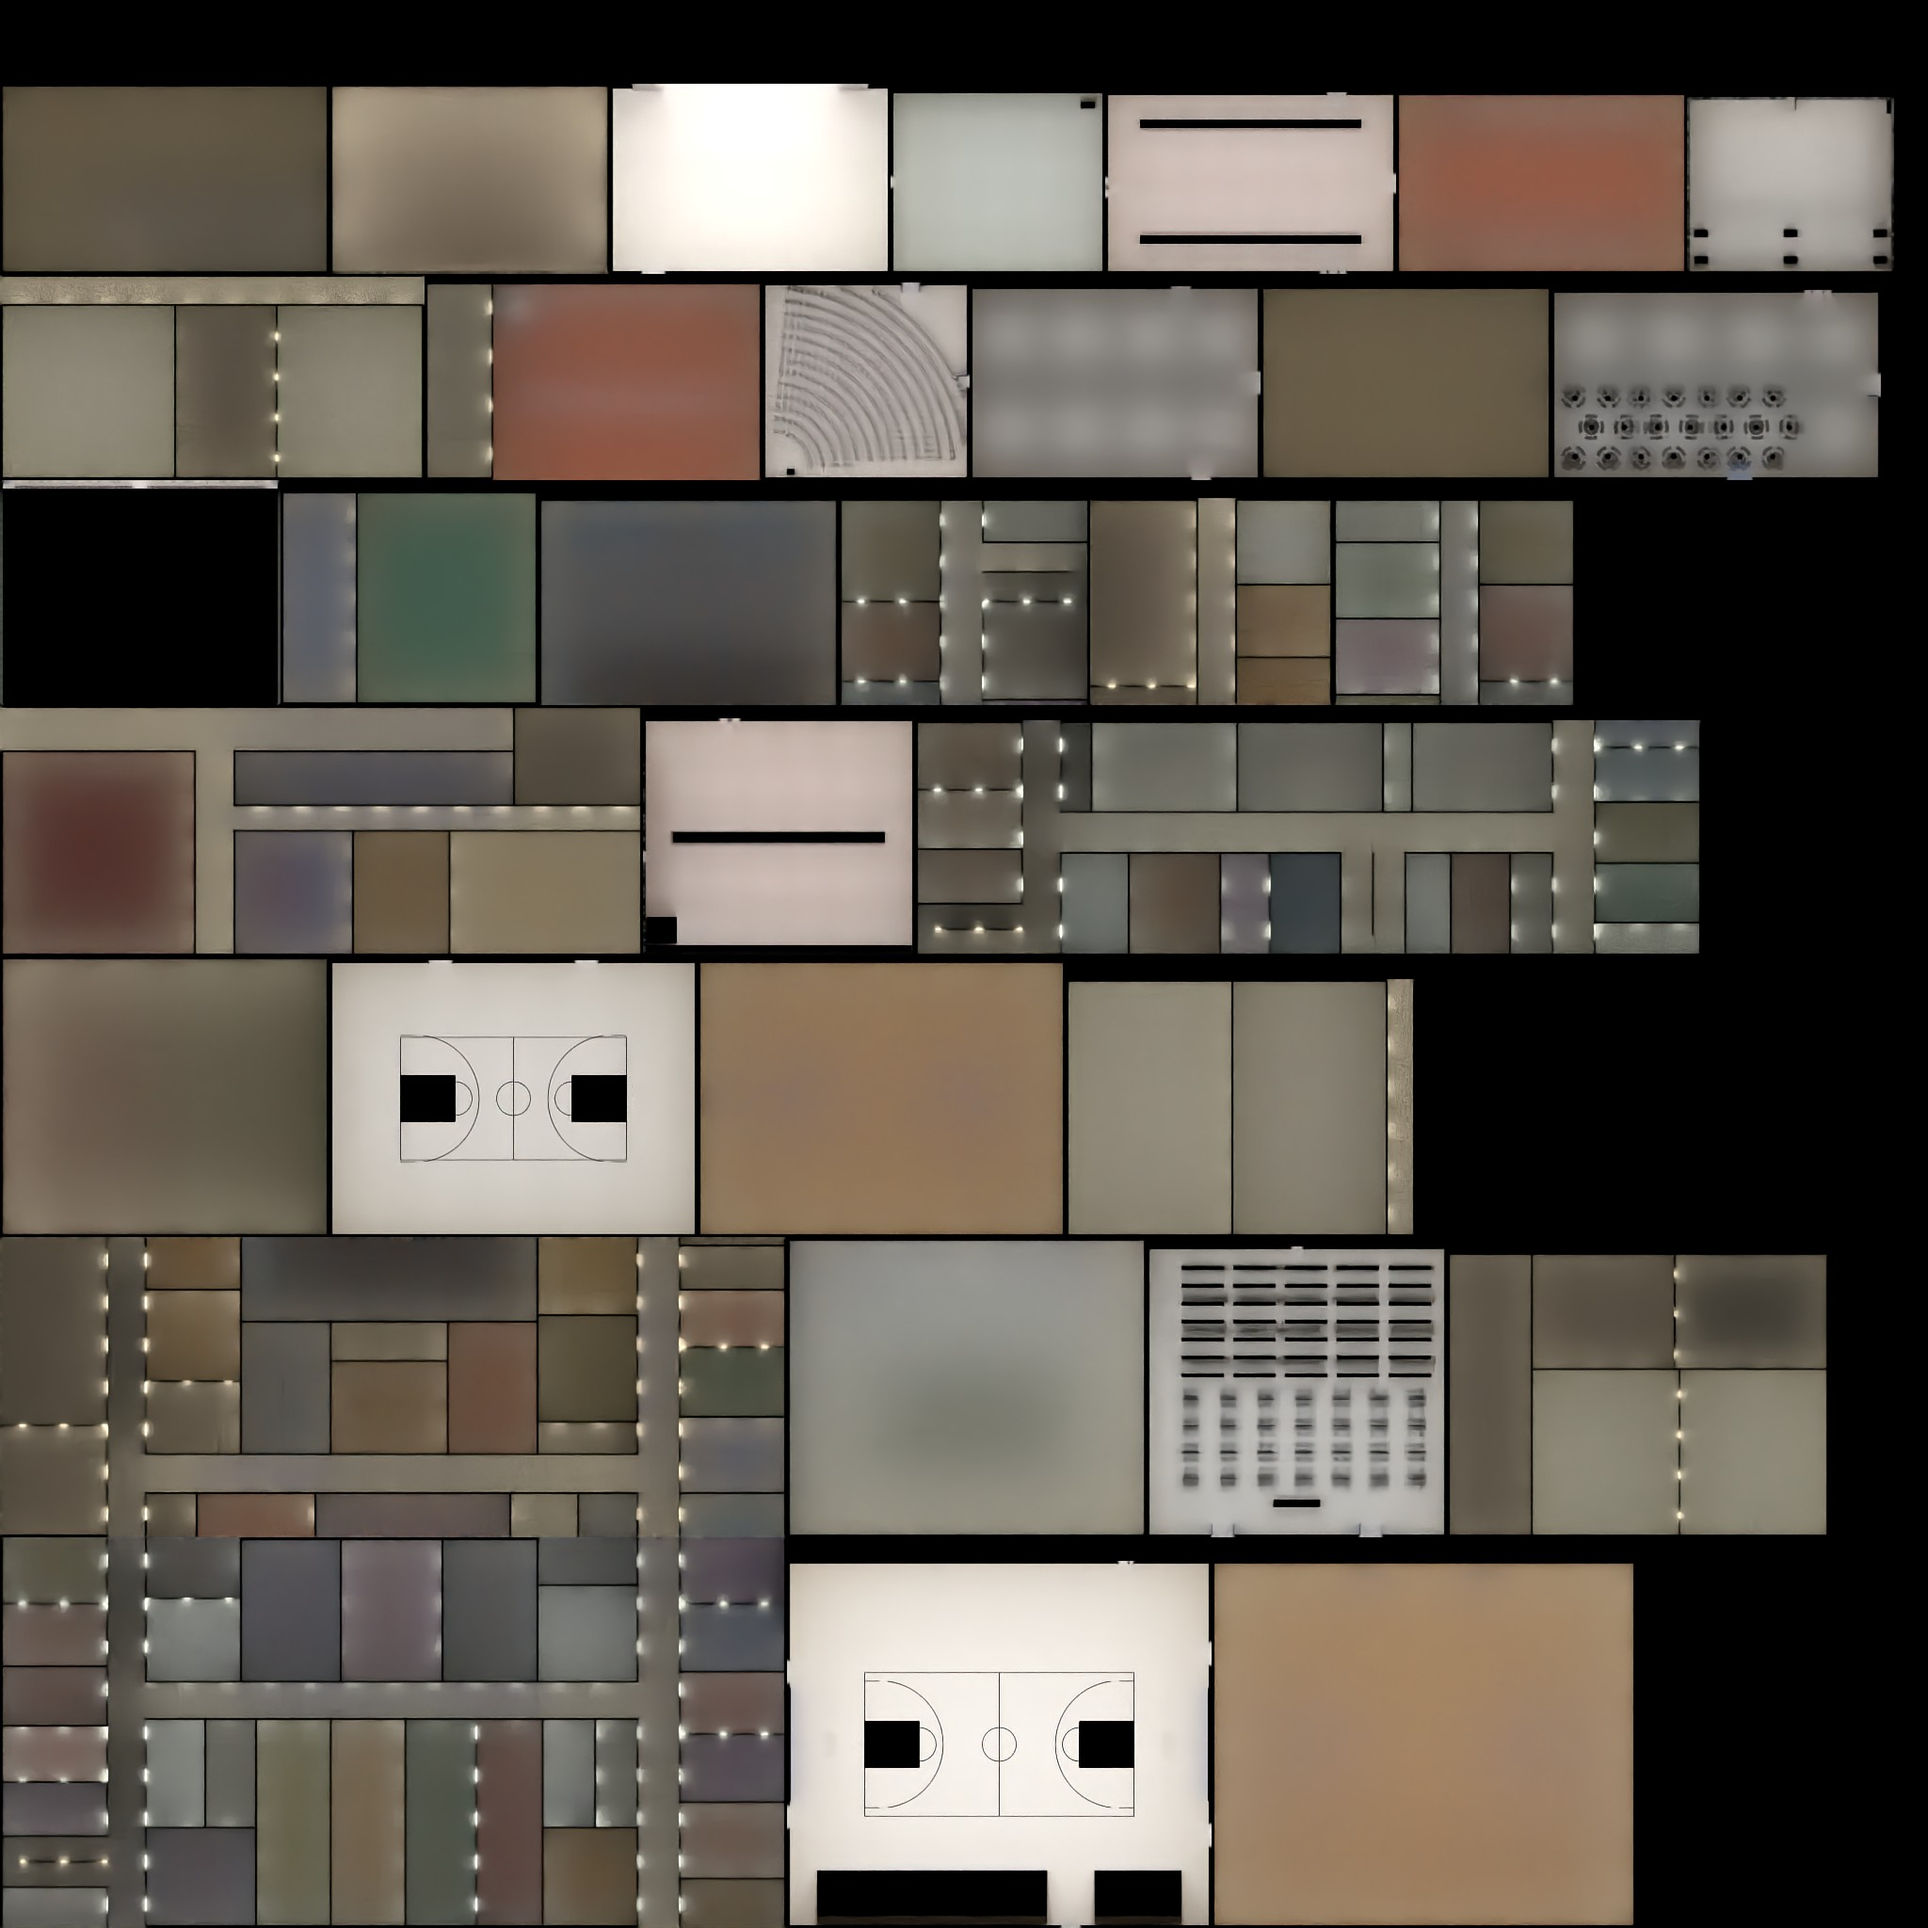
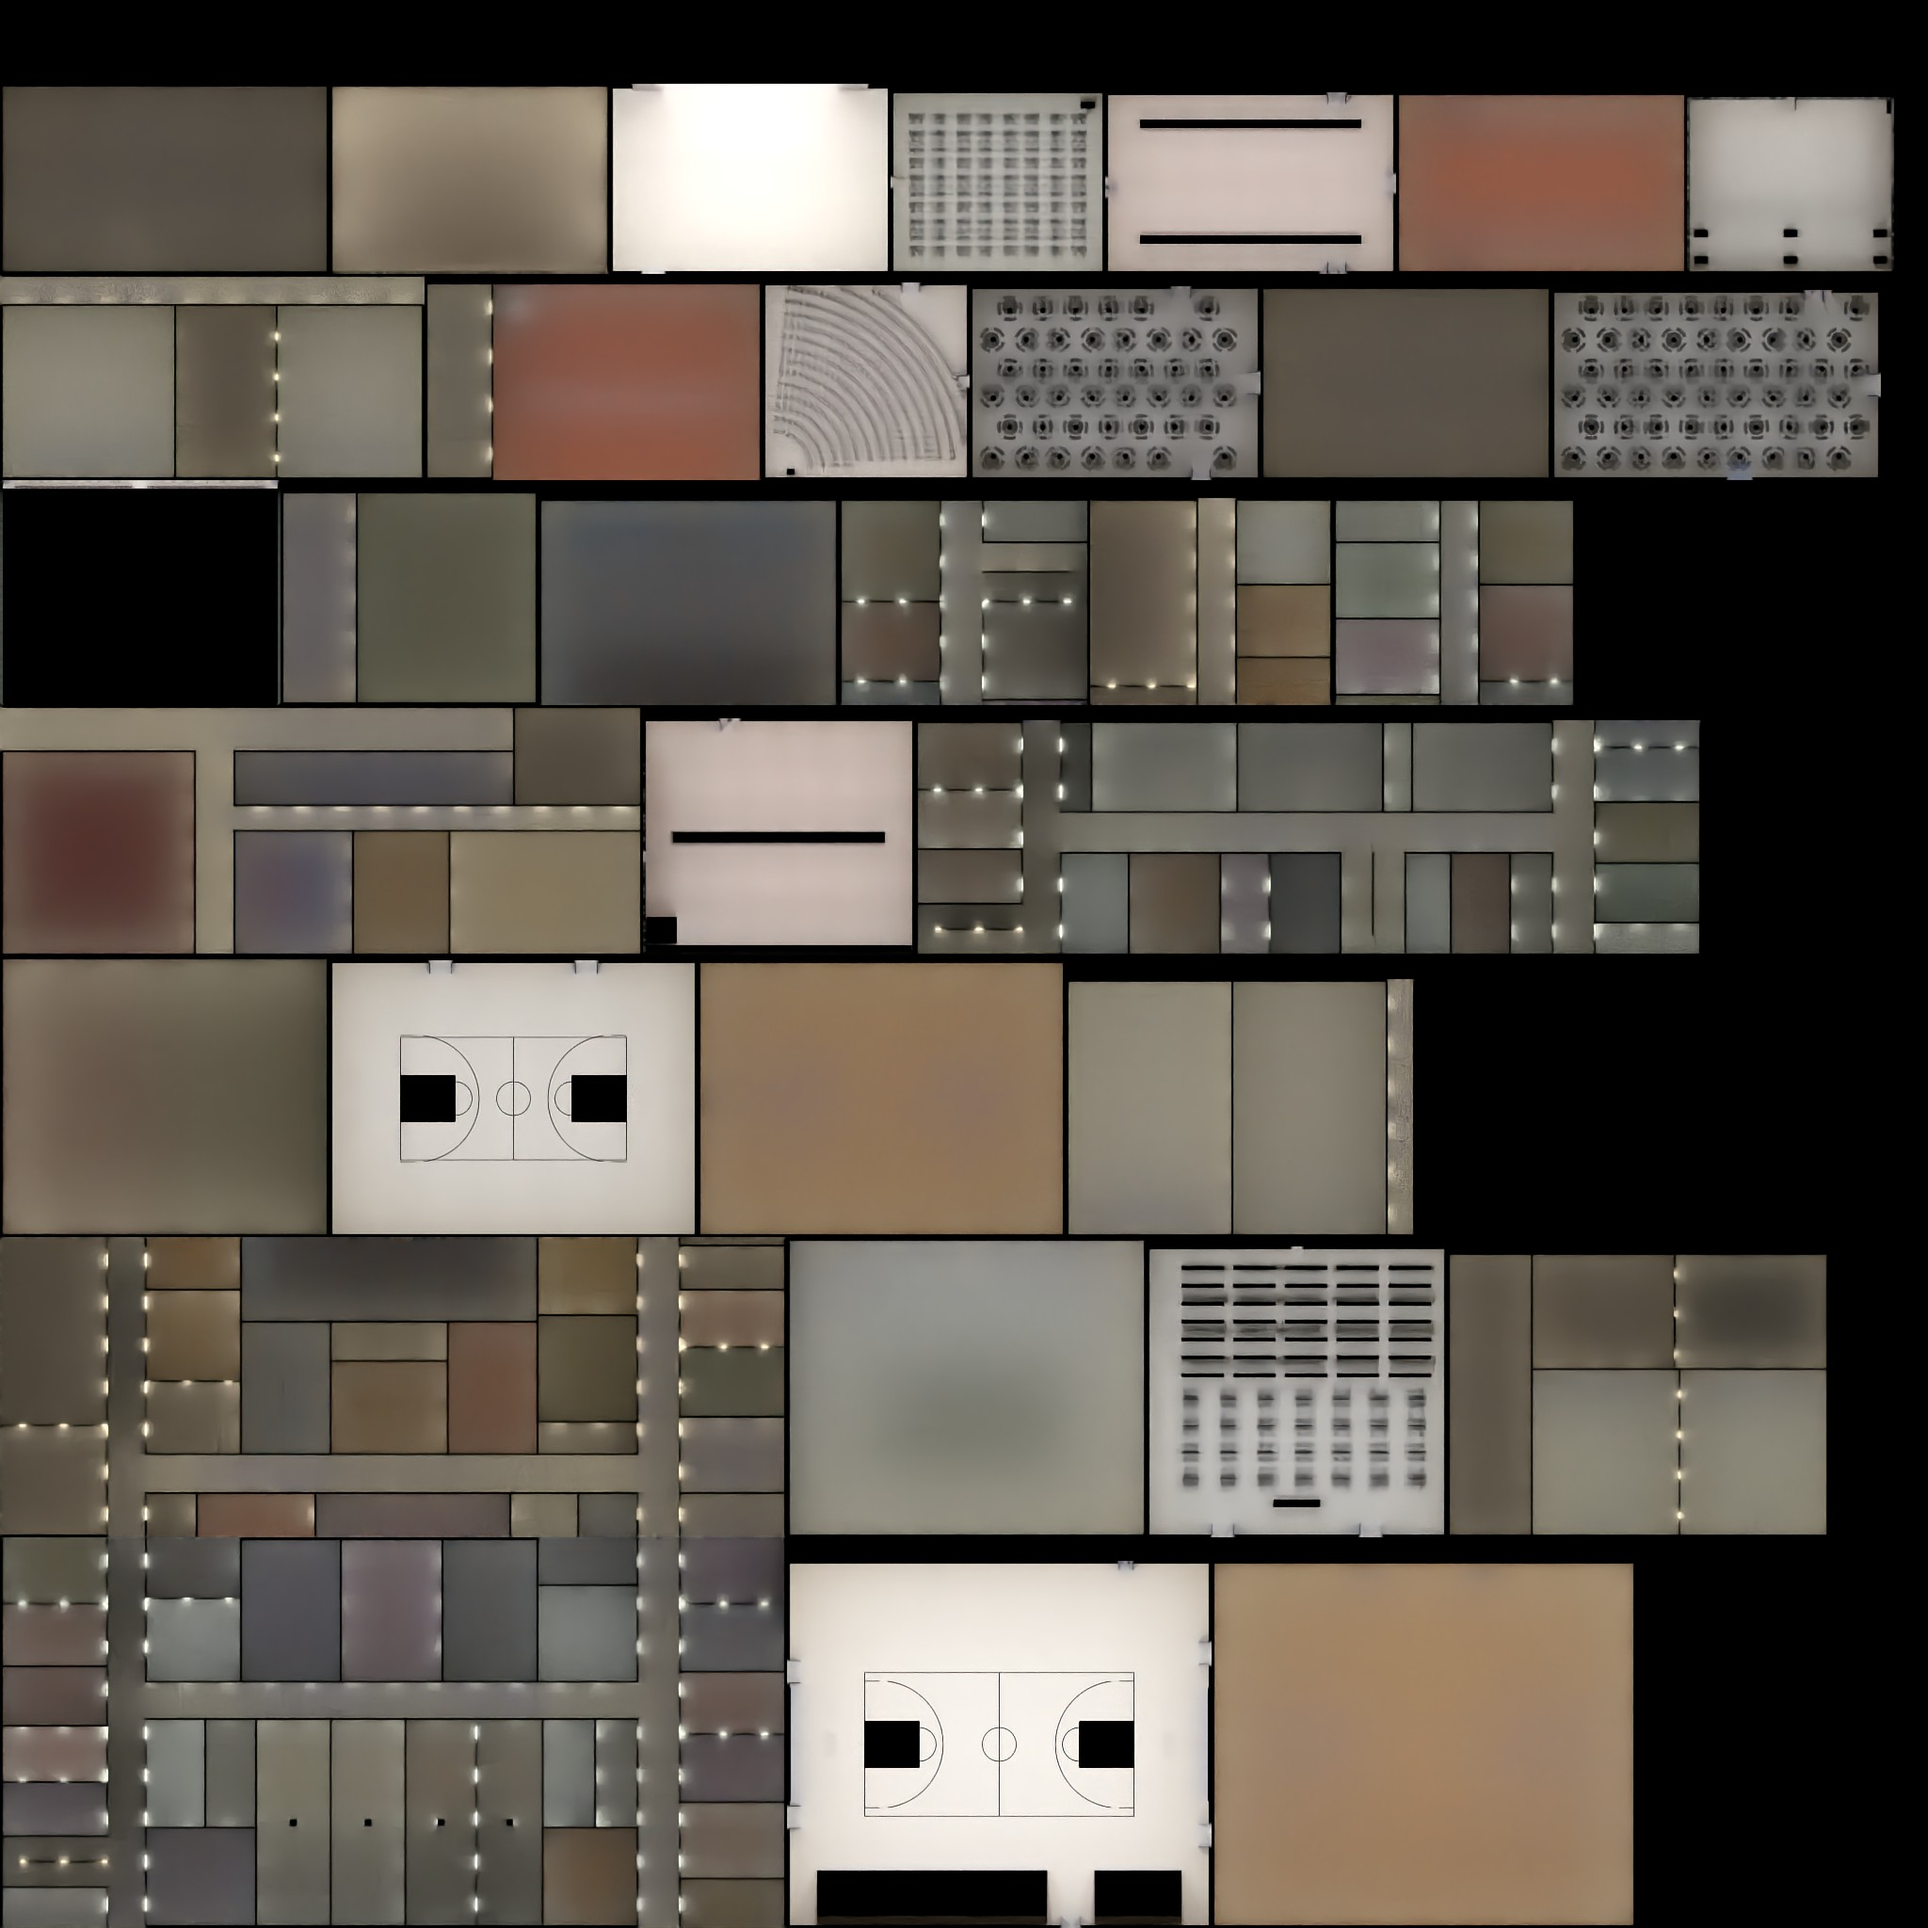
Rebake the lighting for the science rooms
The bake export now includes furniture that is culled by distance, so
every desk and locker still blocks light in the bake.

Changed region(s): [[0.4688, 0.0312, 0.6562, 0.25], [0.8125, 0.1562, 0.9688, 0.25], [0.2188, 0.9375, 0.2812, 0.9688]]

diff --git a/tools/bake/export-scene.js b/tools/bake/export-scene.js
@@ -11,6 +11,8 @@ async () => {
   for (const { r } of info.blockRects) { x0 = Math.min(x0, r[0]); z0 = Math.min(z0, r[1]); x1 = Math.max(x1, r[2]); z1 = Math.max(z1, r[3]); }
   const M = 25;
   const region = new THREE.Box3(new THREE.Vector3(x0 - M, -5, z0 - M), new THREE.Vector3(x1 + M, 40, z1 + M));
+  // furniture chunks culled by distance (props.js) still block light
+  scene.traverse((o) => { if (o.isInstancedMesh) o.visible = true; });
   const skip = new Set();
   g.player.char.group.traverse((o) => skip.add(o));
   for (const b of g.balls.list) skip.add(b.mesh);
